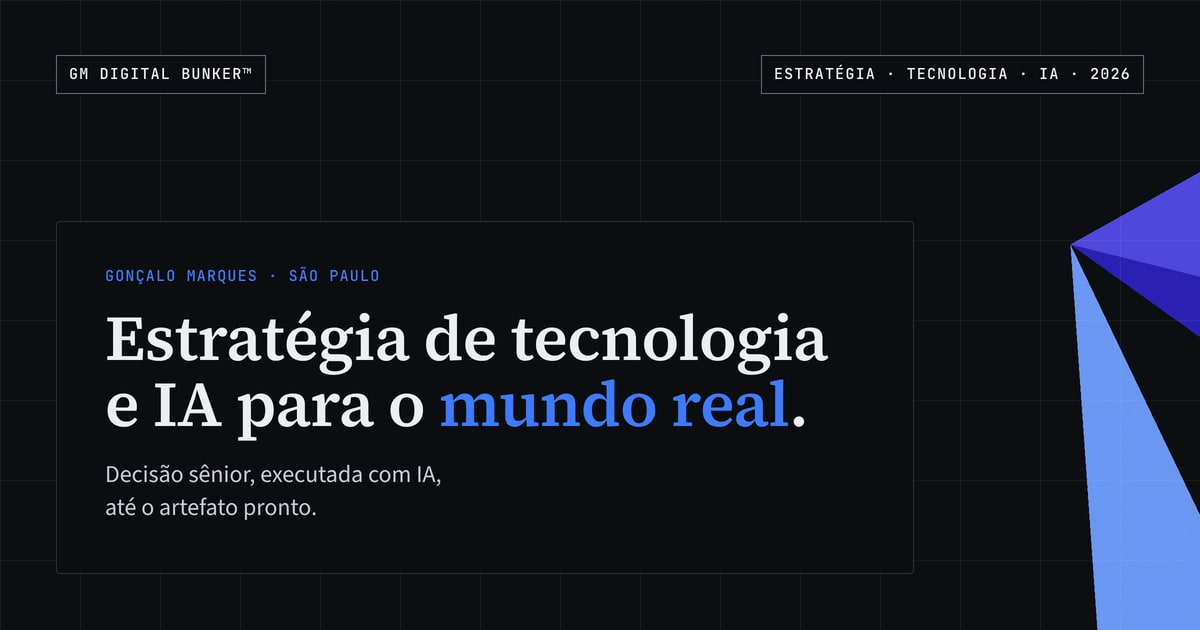
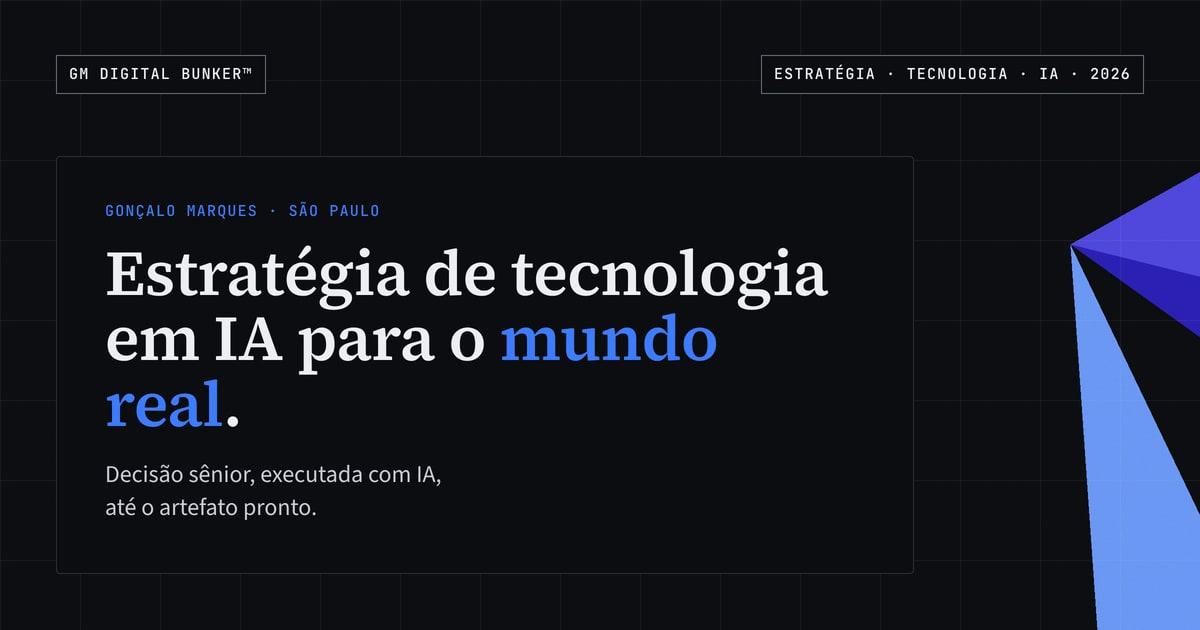
Slogan e descritores: "Estratégia de tecnologia em IA"
Capa, descrição, rodapé, imagem OG e texto alternativo passam a
"Estratégia de tecnologia em IA para o mundo real"; parágrafo da capa
com "em tecnologia para IA"; cargo nos dados estruturados "Estrategista
de tecnologia em IA"; abertura de Serviços "estratégia tecnológica em
IA". Versão em português; a inglesa aguarda a equivalência aprovada.

Claude-Session: https://claude.ai/code/session_017tXnqNFXPURVFWBipceVay

Changed region(s): [[0.0925, 0.3921, 0.7092, 0.7238], [0.0617, 0.3016, 0.3392, 0.3619]]

diff --git a/src/content/home.ts b/src/content/home.ts
@@ -27,13 +27,13 @@ export interface HomeContent {
 export const home: Record<Lang, HomeContent> = {
   'pt-BR': {
     title: 'GM Digital Bunker™',
-    description: 'Estratégia de tecnologia e IA para o mundo real. Decisão sênior, executada com IA, até o artefato pronto, para empresas de pequeno e médio porte.',
+    description: 'Estratégia de tecnologia em IA para o mundo real. Decisão sênior, executada com IA, até o artefato pronto, para empresas de pequeno e médio porte.',
     jsonLdDescription: 'Prática independente de estratégia tecnológica voltada à aplicação avançada de inteligência artificial, da análise estratégica à produção de artefatos técnicos e de comunicação.',
     hero: {
       meta: 'Estratégia · Tecnologia · IA · 2026',
       whoHtml: '<a href="/sobre">Gonçalo Marques</a> · São Paulo',
-      titleHtml: 'Estratégia de tecnologia e IA para o <span>mundo real</span>.',
-      lead: 'Para empresas de pequeno e médio porte que precisam decidir e executar em tecnologia e IA, da análise estratégica ao artefato pronto.',
+      titleHtml: 'Estratégia de tecnologia em IA para o <span>mundo real</span>.',
+      lead: 'Para empresas de pequeno e médio porte que precisam decidir e executar em tecnologia para IA, da análise estratégica ao artefato pronto.',
       services: 'Ver serviços', method: 'Conhecer o método', pause: 'Pausar animação', resume: 'Retomar animação',
     },
     s1: {

diff --git a/src/i18n/ui.ts b/src/i18n/ui.ts
@@ -13,7 +13,7 @@ export const ui = {
     menu: { open: 'Menu', close: 'Fechar menu' },
     theme: { toLight: 'Mudar para tema claro', toDark: 'Mudar para tema escuro' },
     langSwitch: { code: 'EN', label: 'English version', hreflang: 'en' },
-    footer: { tagline: 'Estratégia de tecnologia e IA para o mundo real.', pages: 'Páginas', also: 'Também', book: 'Livro na Amazon', linkedin: 'LinkedIn', privacy: 'Privacidade', external: 'site externo', pagesNav: 'Rodapé – páginas', externalNav: 'Rodapé – destinos externos', current: 'PT', other: 'EN' },
+    footer: { tagline: 'Estratégia de tecnologia em IA para o mundo real.', pages: 'Páginas', also: 'Também', book: 'Livro na Amazon', linkedin: 'LinkedIn', privacy: 'Privacidade', external: 'site externo', pagesNav: 'Rodapé – páginas', externalNav: 'Rodapé – destinos externos', current: 'PT', other: 'EN' },
     crumbsHome: 'Início',
     crumbsLabel: 'Você está em',
     invite: 'Vamos conversar sobre onde e quando é melhor com IA no seu negócio.',

diff --git a/scripts/og/og.html b/scripts/og/og.html
@@ -33,7 +33,7 @@
   <p class="meta meta--r">Estratégia · Tecnologia · IA · 2026</p>
   <div class="plate">
     <p class="eyebrow">Gonçalo Marques · São Paulo</p>
-    <h1>Estratégia de tecnologia e IA para o <span>mundo real</span>.</h1>
+    <h1>Estratégia de tecnologia em IA para o <span>mundo real</span>.</h1>
     <p class="lead">Decisão sênior, executada com IA, até o artefato pronto.</p>
   </div>
 </div>
